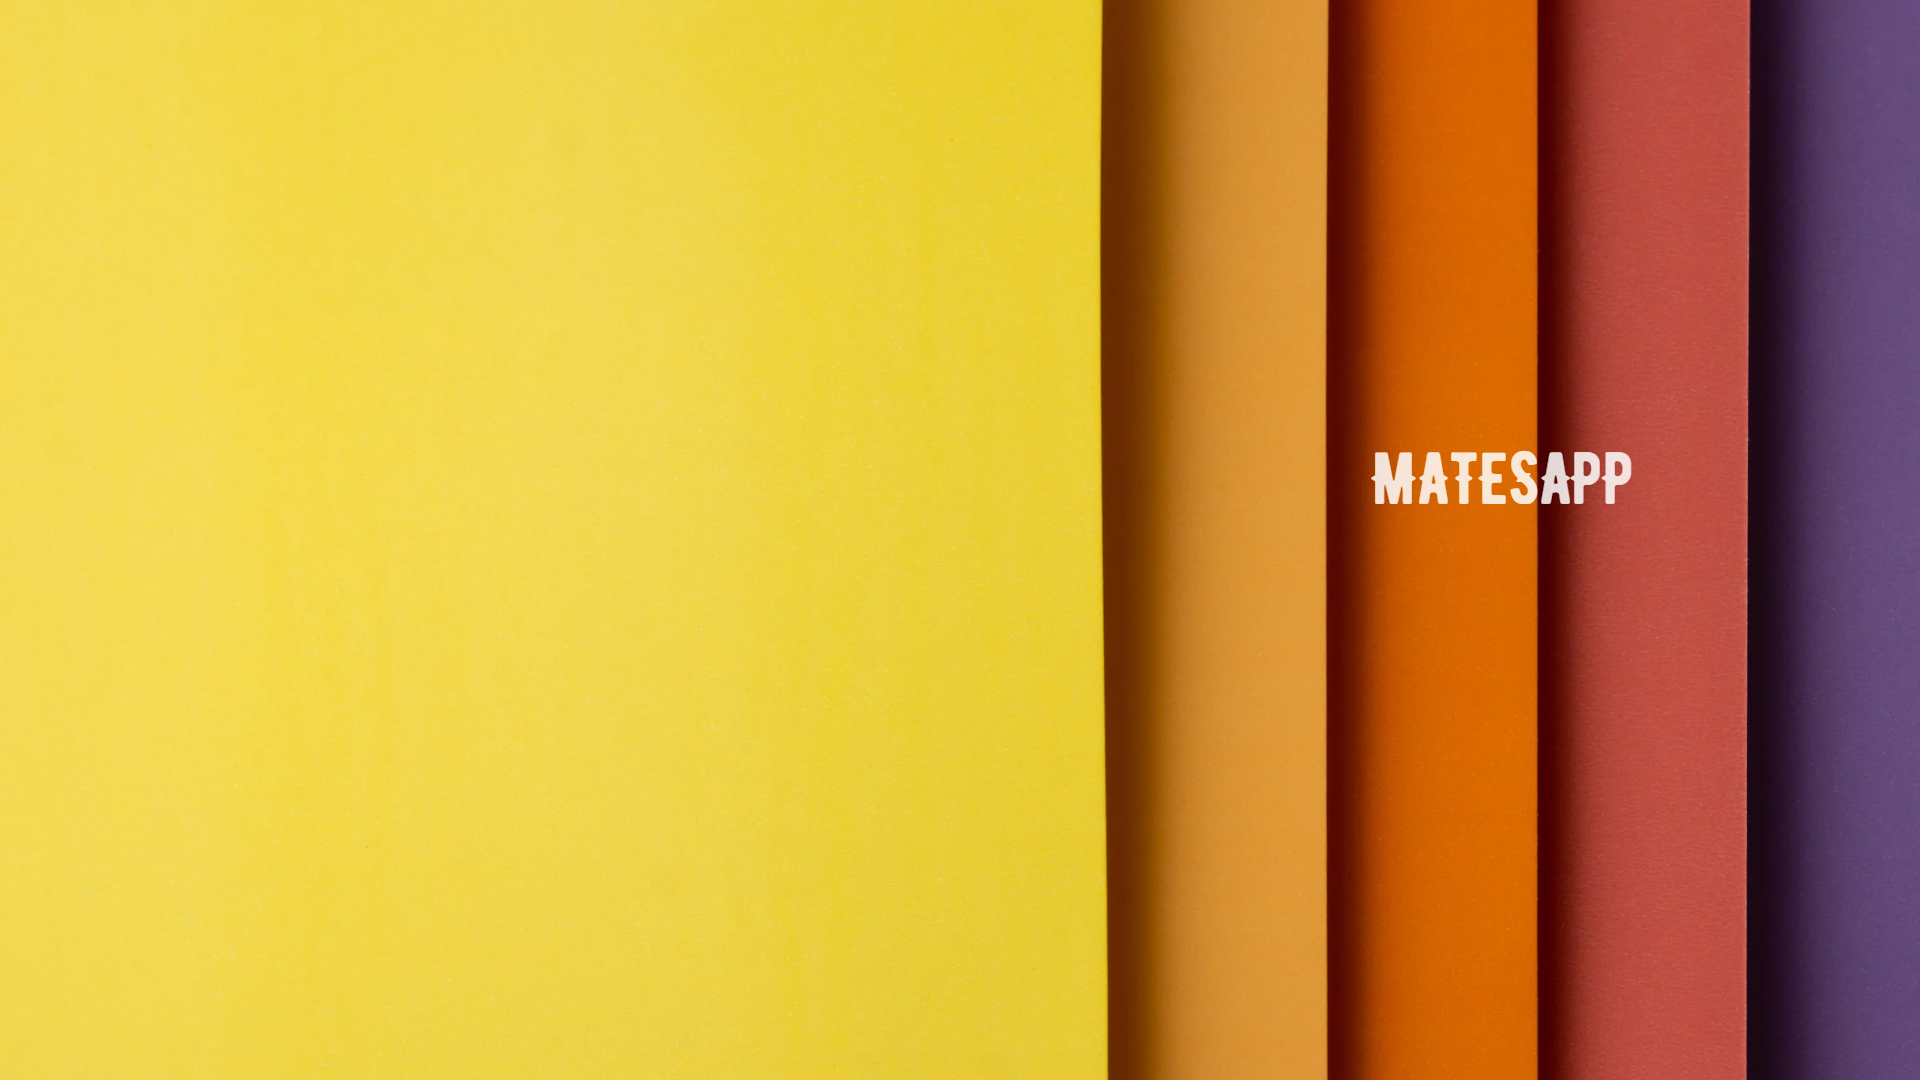
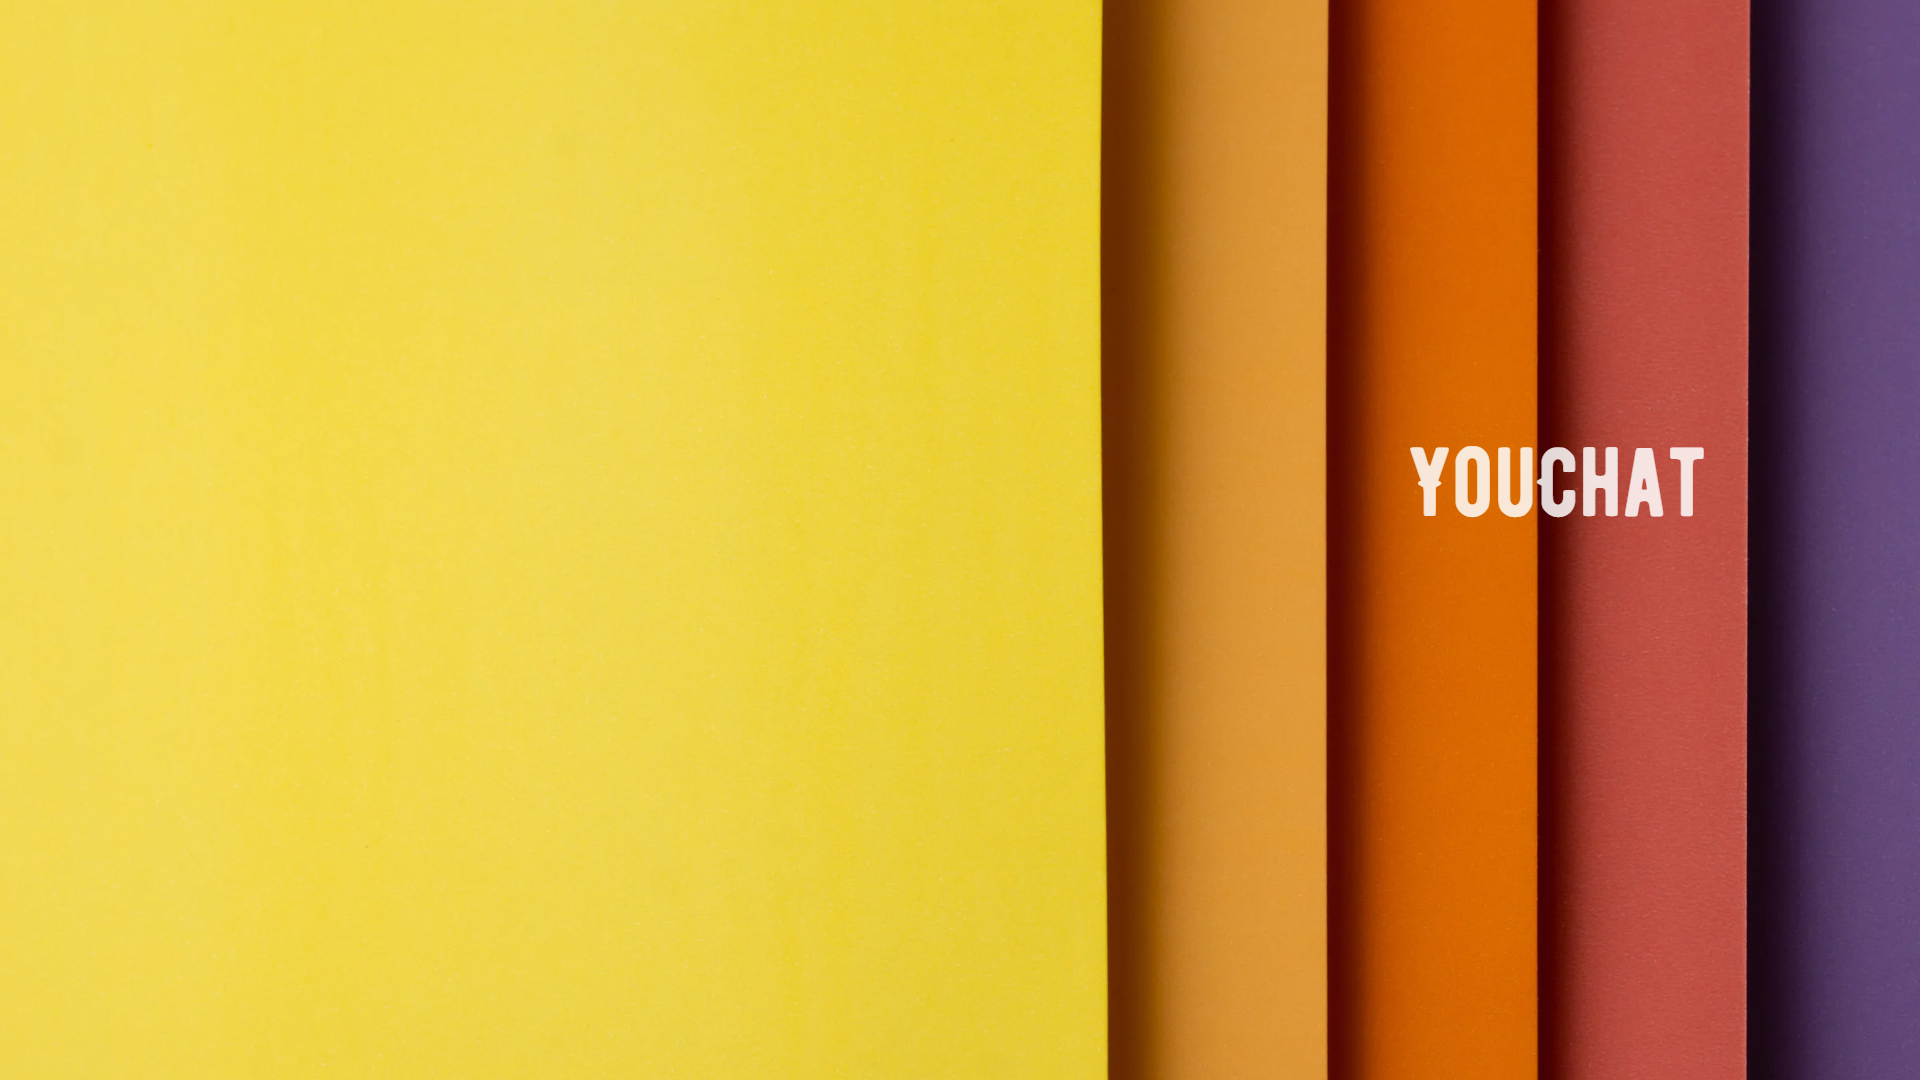
Updations

Changed region(s): [[0.7188, 0.3972, 0.9062, 0.4889]]

diff --git a/src/Pages/register.scss b/src/Pages/register.scss
@@ -1,6 +1,7 @@
 @import url('https://fonts.googleapis.com/css2?family=Courgette&family=Kanit:ital@1&display=swap');
 @import url('https://fonts.googleapis.com/css2?family=Josefin+Sans&display=swap');
 @import url('https://fonts.googleapis.com/css2?family=Ubuntu&display=swap');
+@import url('https://fonts.googleapis.com/css2?family=Kalam&display=swap');
 
 @mixin mobile{
     @media screen and (max-width: 480px){
@@ -41,7 +42,7 @@
         .register-title , .register-title2{
             color: white;
             padding: 2px;
-            font-family: 'Courgette', cursive;
+            font-family: 'Kalam', cursive;
         }
 
         .register-title2{
@@ -109,7 +110,15 @@
                     color: black;
                 }
             }
+
         }
+        
+        .reg-temp{
+            color: white;
+            font-family: "Kanit", sans-serif;
+            font-size: 1.1rem;
+        }
+        
         background-color: #397FF9;
         padding: 20px;
         height: fit-content;

diff --git a/src/Pages/login.scss b/src/Pages/login.scss
@@ -1,6 +1,7 @@
 @import url('https://fonts.googleapis.com/css2?family=Courgette&family=Kanit:ital@1&display=swap');
 @import url('https://fonts.googleapis.com/css2?family=Josefin+Sans&display=swap');
 @import url('https://fonts.googleapis.com/css2?family=Ubuntu&display=swap');
+@import url('https://fonts.googleapis.com/css2?family=Kalam&display=swap');
 
 @mixin mobile{
     @media screen and (max-width: 480px){
@@ -33,7 +34,7 @@
         
         .login-title , .login-title2{
             color: white;
-            font-family: 'Courgette', cursive;
+            font-family: 'Kalam', cursive;
         }
         
         .login-title2{
@@ -89,6 +90,13 @@
                 }
             }
         }
+
+        .reg-temp{
+            color: white;
+            font-family: "Kanit", sans-serif;
+            font-size: 1.1rem;
+        }
+
         margin-left: 15%;
         background-color: #397FF9;
         padding: 25px;

diff --git a/src/Pages/Register.jsx b/src/Pages/Register.jsx
@@ -76,7 +76,7 @@ const Register = () => {
     return (
         <div className="register-container">
             <div className="register-wrapper">
-                <h1 className="register-title">MatesApp</h1>
+                <h1 className="register-title">YouChat</h1>
                 <p className="register-title2">Register</p>
                 <form className="register-form">
                     <input className="user" name='user' type="text" placeholder="Username" onChange={handleChange} />

diff --git a/src/Pages/Login.jsx b/src/Pages/Login.jsx
@@ -49,7 +49,7 @@ const Login = () => {
     return (
         <div className="login-container">
             <div className="login-wrapper">
-                <h1 className="login-title">MatesApp</h1>
+                <h1 className="login-title">YouChat</h1>
                 <p className="login-title2">Login</p>
                 <form className="login-form">
                     <input className="user" name='email' type="text" placeholder="Email" onChange={handleChange} />

diff --git a/src/components/right/rightstyles.scss b/src/components/right/rightstyles.scss
@@ -115,6 +115,8 @@
         }
 
         .chatImage{
+            height: 30vh;
+            width: 40vh;
             border-radius: 10px 10px 10px 10px;
         }
 
